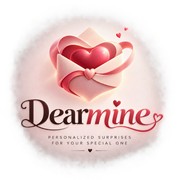
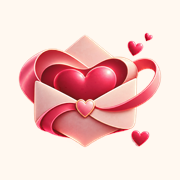
Switch to the glossy Valentine emblem as the brand mark
Replaces the previous wordmark lockup with the supplied envelope-and-heart
emblem, which carries no text.

- Crop the source to the actual artwork: the canvas carried a near-white wash
  across its full width, so a plain alpha bounding box kept ~50% dead space.
  Trim on coloured pixels instead (verified stable across four independent
  alpha/luminance/saturation criteria) to 663x536.
- Rebuild brand assets: dearmine-logo.png (320px), favicon.png (256px square),
  apple-touch-icon.png (180px, opaque so iOS does not render alpha as black)
  and og-image.png (1200x630 card composing emblem + 'Dearmine' + tagline).
- Header, footer and admin bar now pair the emblem with the Dearmine wordmark
  as text, since the emblem alone carries no name.

diff --git a/src/app/admin/AdminLayout.tsx b/src/app/admin/AdminLayout.tsx
@@ -34,8 +34,9 @@ export function AdminLayout() {
       <header className="sticky top-0 z-40 border-b border-white/10 bg-ink/95 backdrop-blur">
         <div className="mx-auto flex w-full max-w-[1500px] items-center justify-between px-4 py-3 sm:px-6">
           <div className="flex items-center gap-3">
-            <Link to="/admin" className="flex items-center">
-              <img src="/brand/dearmine-logo.png" alt="Dearmine" className="h-11 w-auto" />
+            <Link to="/admin" className="flex items-center gap-2">
+              <img src="/brand/dearmine-logo.png" alt="" aria-hidden className="h-9 w-auto" />
+              <span className="font-display text-xl tracking-wide text-cream">Dearmine</span>
             </Link>
             <span className="rounded-full bg-romantic/25 px-2.5 py-0.5 text-xs font-medium uppercase tracking-wider text-rose-gold">
               Admin

diff --git a/src/app/layouts.tsx b/src/app/layouts.tsx
@@ -20,8 +20,9 @@ import { Container, LinkButton, Button } from './ui'
 
 function BrandMark({ className = '' }: { className?: string }) {
   return (
-    <Link to="/" className={`flex items-center ${className}`}>
-      <img src="/brand/dearmine-logo.png" alt={BRAND.name} className="h-12 w-auto sm:h-14" />
+    <Link to="/" className={`flex items-center gap-2.5 ${className}`}>
+      <img src="/brand/dearmine-logo.png" alt="" aria-hidden className="h-9 w-auto sm:h-11" />
+      <span className="font-display text-2xl tracking-wide text-cream">{BRAND.name}</span>
     </Link>
   )
 }

diff --git a/index.html b/index.html
@@ -2,7 +2,7 @@
 <html lang="en">
   <head>
     <meta charset="UTF-8" />
-    <link rel="icon" type="image/png" href="/brand/dearmine-logo.png" />
+    <link rel="icon" type="image/png" href="/brand/favicon.png" />
     <link rel="apple-touch-icon" href="/brand/apple-touch-icon.png" />
     <meta property="og:type" content="website" />
     <meta property="og:site_name" content="Dearmine" />
